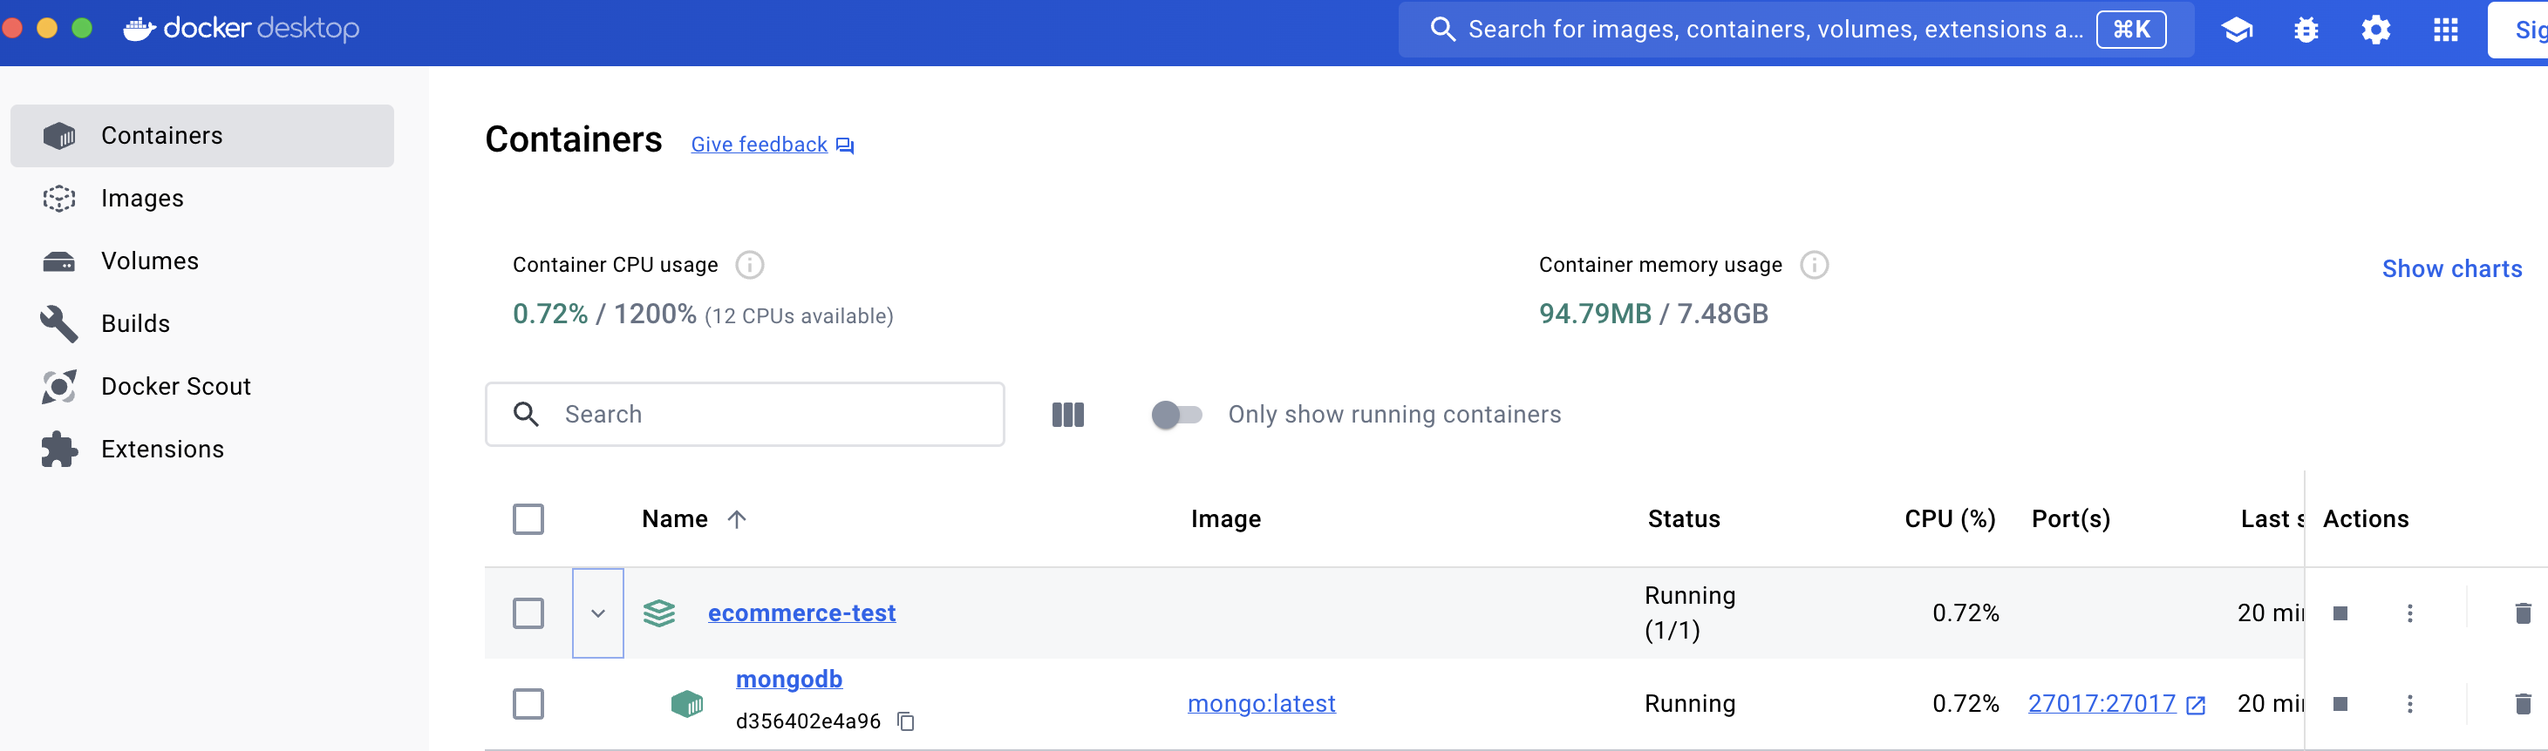
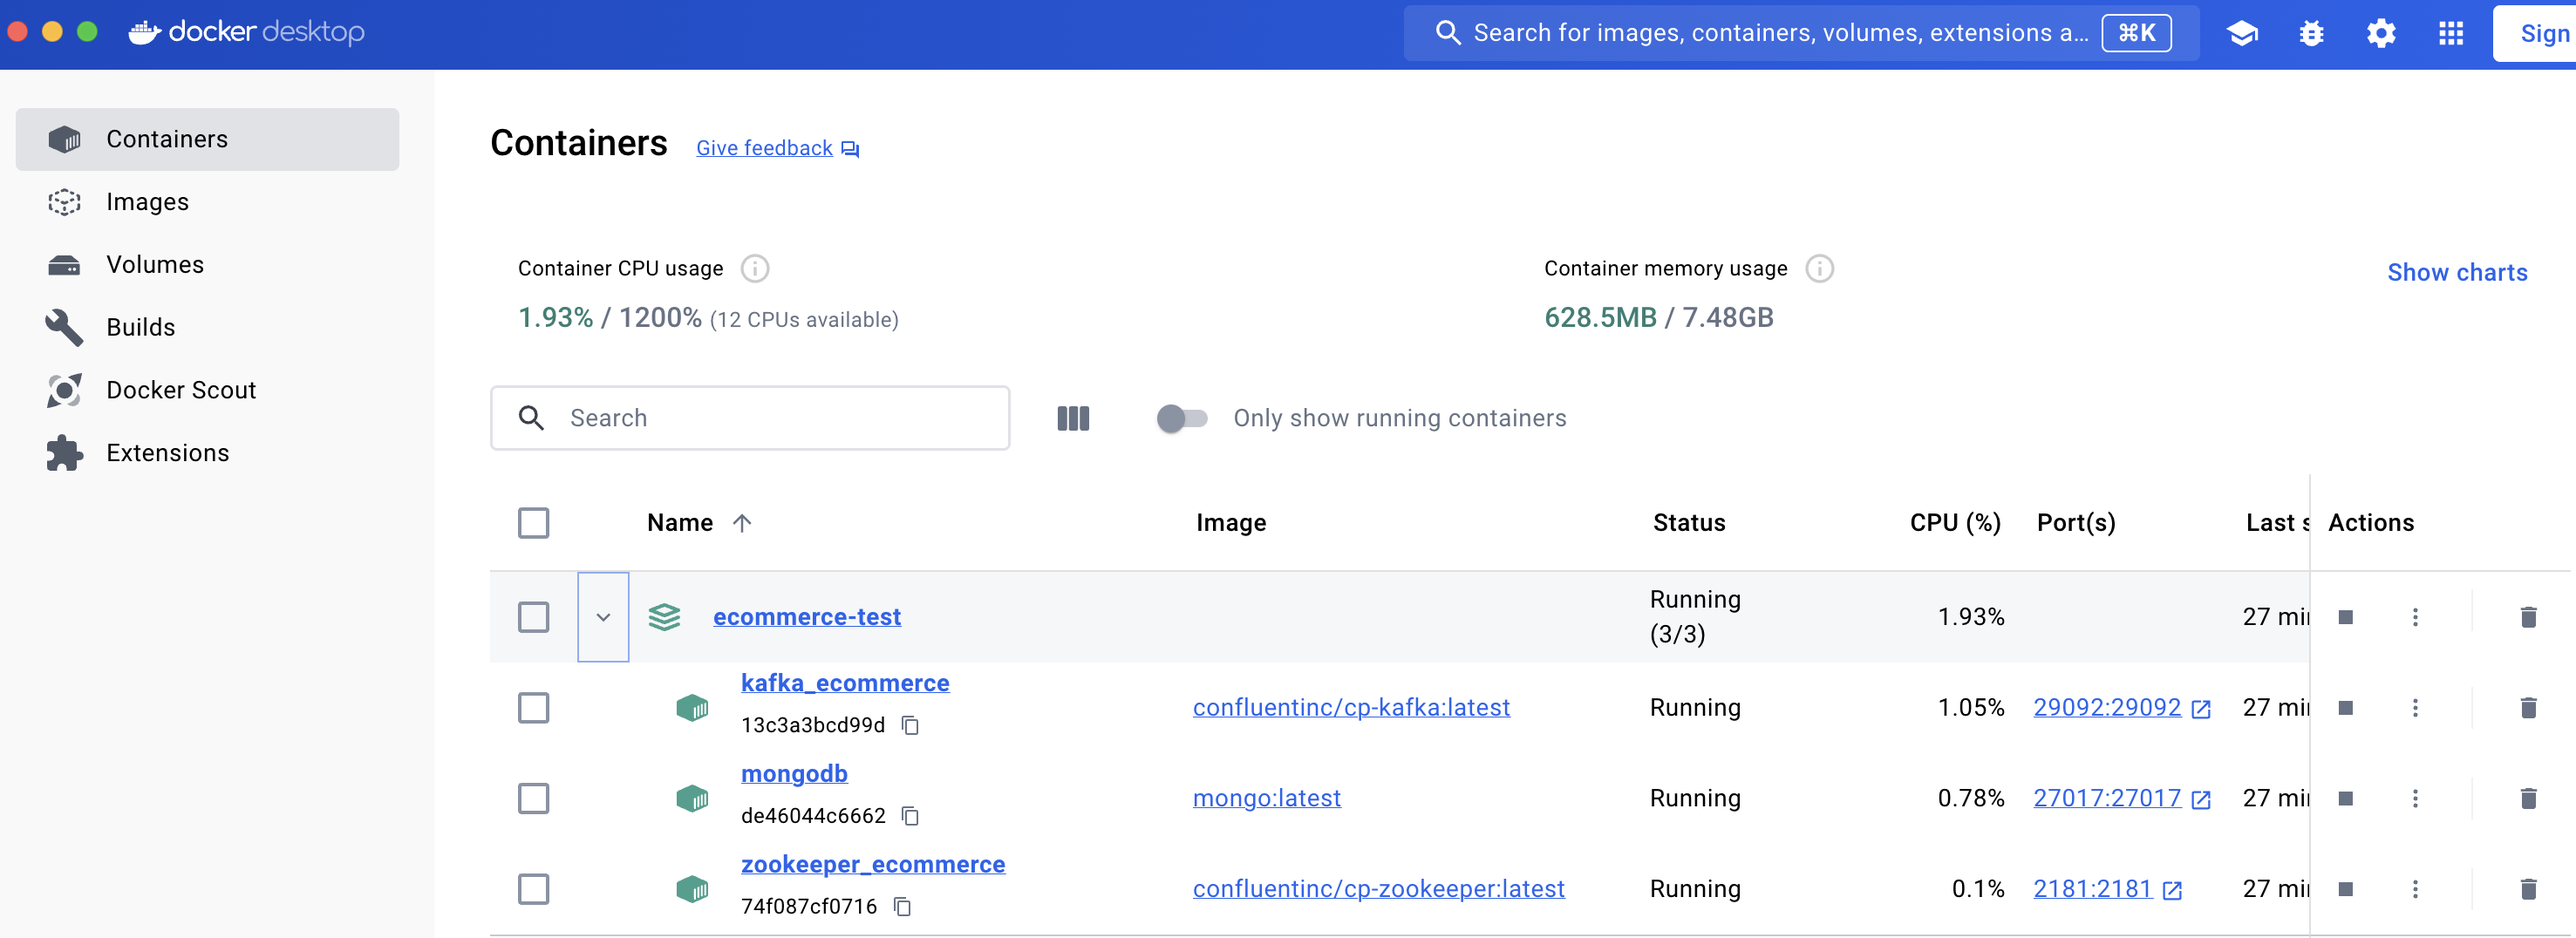
added kafka installation

diff --git a/README.md b/README.md
@@ -4,8 +4,8 @@ Este es un sistema de comercio electrónico para propósitos de prueba.
 
 ## Índice
 - [Instalación](#instalación)
-- [Uso](#uso)
 - [Base de Datos](#base-de-datos)
+- [Uso](#uso)
 
 ## Instalación
 
@@ -49,3 +49,5 @@ Puedes acceder a MongoDB usando las siguientes credenciales:
 - **database:** ecommerce
 
 ![Tables](https://github.com/juanmaabanto/ecommerce-test/blob/main/screenshots/tables.png)
+
+## USO
